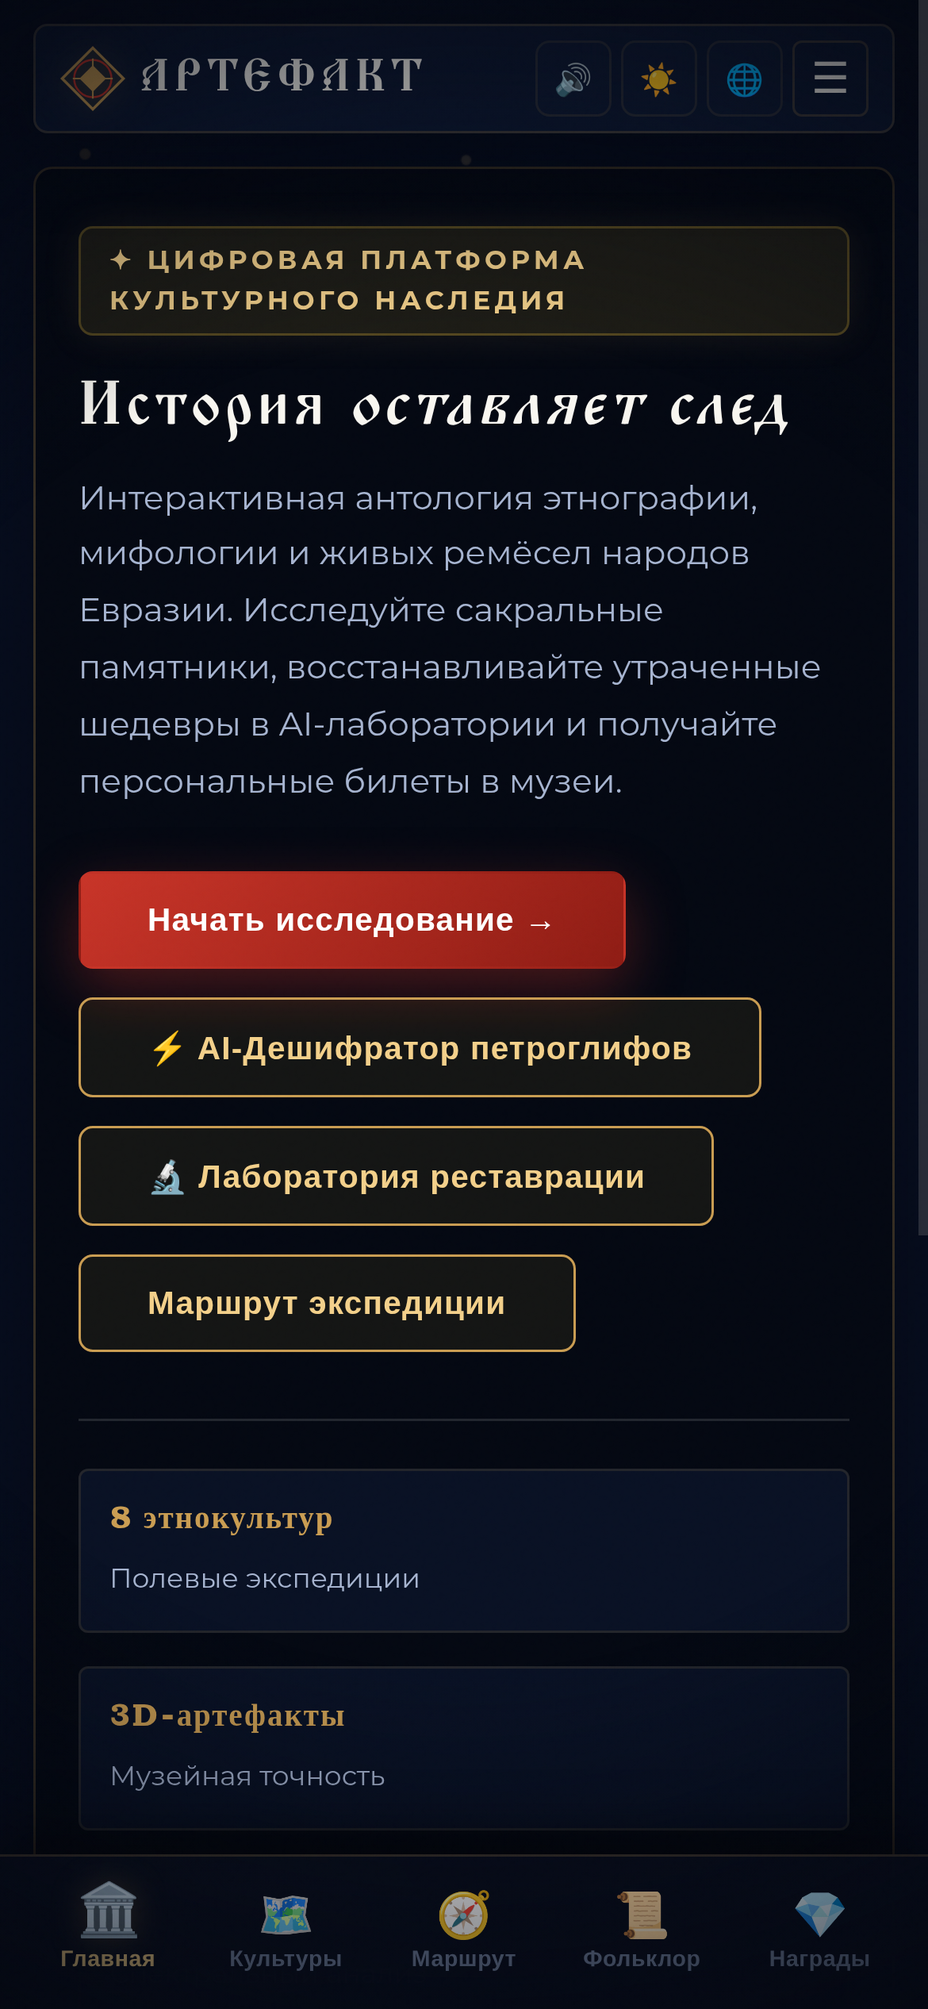
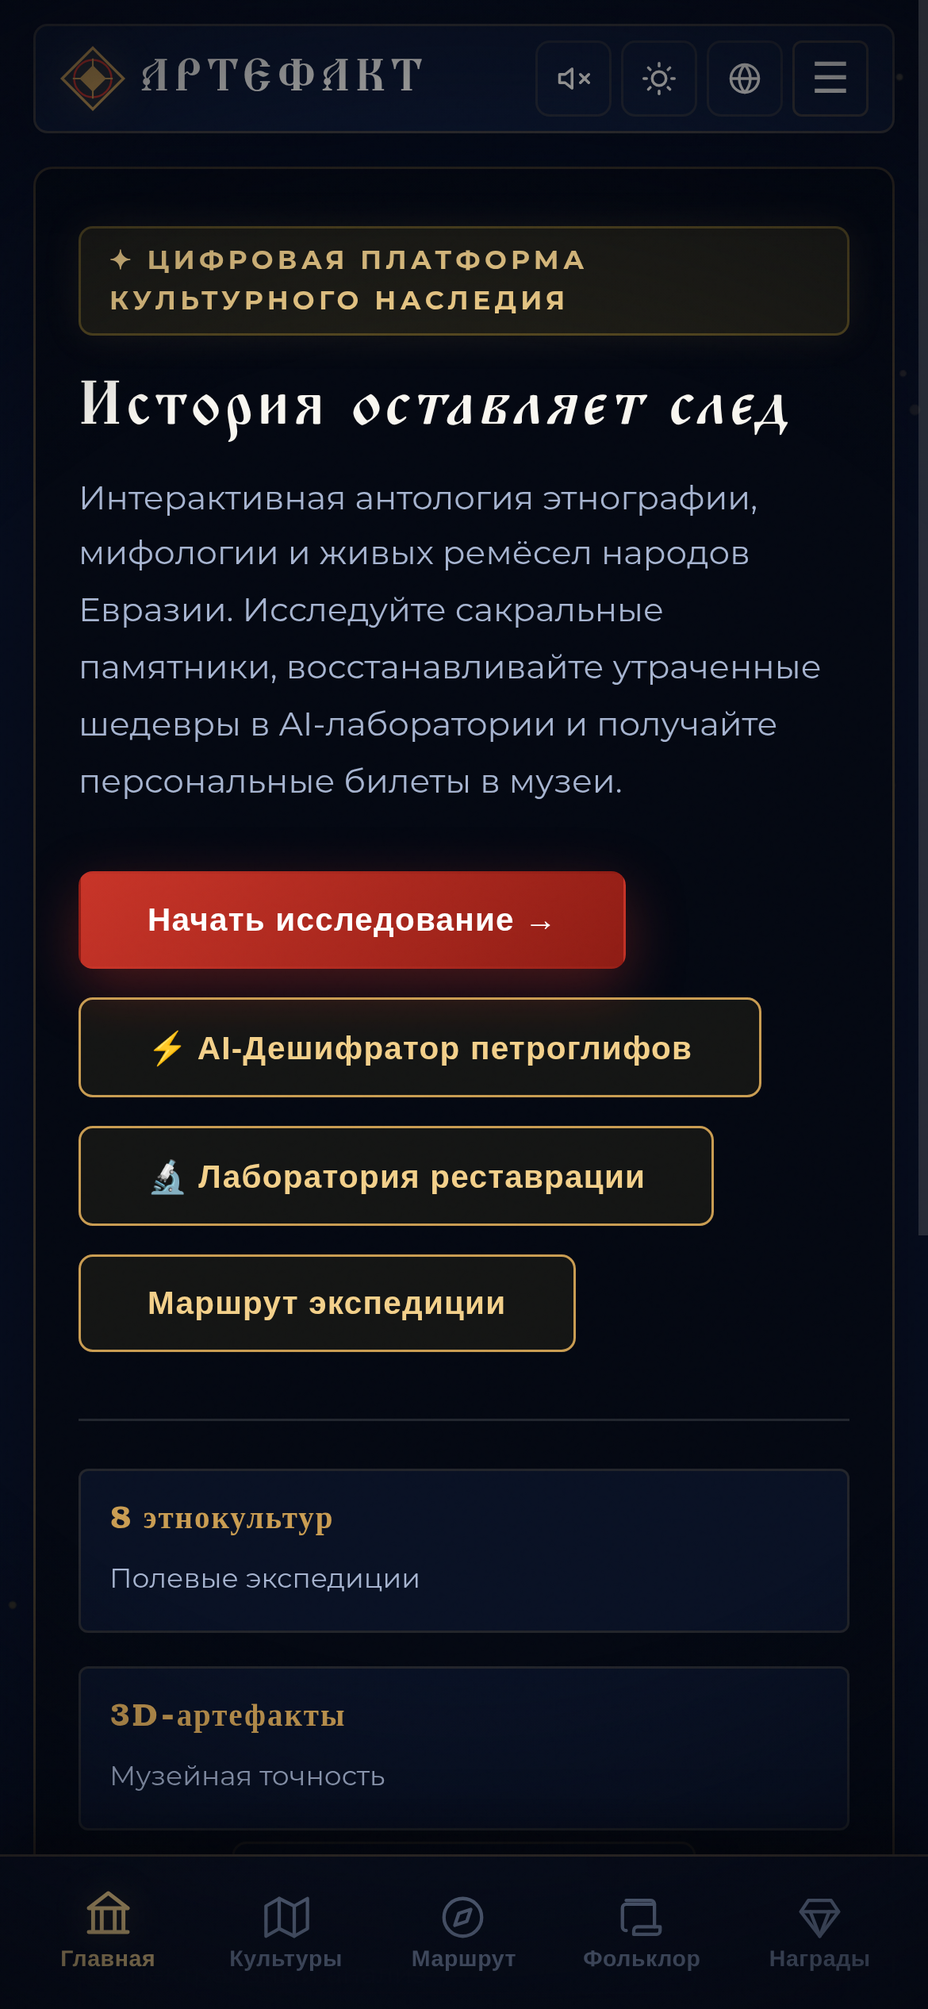
fix(header-layout): eliminate bottom-nav/action emojis, tune widescreen column balance, and refine nav breathing room

diff --git a/index.html b/index.html
@@ -422,9 +422,9 @@
       display: flex;
       align-items: center;
       justify-content: center;
-      gap: 3px;
+      gap: clamp(4px, 0.75vw, 10px);
       flex: 1;
-      margin: 0 10px;
+      margin: 0 12px;
       flex-wrap: nowrap;
     }
 
@@ -432,11 +432,11 @@
       position: relative;
       background: transparent;
       border: 1px solid transparent;
-      padding: 7px 11px;
+      padding: 7px clamp(8px, 0.7vw, 12px);
       border-radius: var(--radius-pill);
       font-size: 13px;
       font-weight: 500;
-      letter-spacing: 0.025em;
+      letter-spacing: 0.03em;
       color: var(--text-muted);
       cursor: pointer;
       transition: var(--transition);
@@ -502,6 +502,21 @@
 
     .action-chip .chip-label {
       font-weight: 600;
+    }
+
+    .chip-svg-icon {
+      flex-shrink: 0;
+      stroke: currentColor;
+      display: inline-block;
+      vertical-align: middle;
+      transition: stroke 0.2s ease, transform 0.2s ease;
+    }
+
+    #soundIconSymbol, #themeIconSymbol {
+      display: inline-flex;
+      align-items: center;
+      justify-content: center;
+      flex-shrink: 0;
     }
 
     #langToggleBtn {
@@ -1191,7 +1206,7 @@
       background: var(--bg-card);
       border: 1px solid var(--border-gold-subtle);
       border-radius: var(--radius-md);
-      padding: 15px 16px;
+      padding: 16px 18px;
       margin-bottom: 16px;
       box-shadow: inset 0 1px 0 rgba(255, 255, 255, 0.04);
     }
@@ -1288,16 +1303,16 @@
     }
 
     .milestone-desc {
-      font-size: 11.5px;
+      font-size: 12px;
       color: var(--text-dim);
-      margin-top: 2px;
-      line-height: 1.5;
+      margin-top: 3px;
+      line-height: 1.48;
     }
 
     /* ШАГ 1: БЫЛО / СТАЛО */
     .before-after-stage {
       position: relative;
-      height: clamp(260px, 34vh, 370px);
+      height: clamp(250px, 31vh, 335px);
       border-radius: var(--radius-md);
       overflow: hidden;
       border: 2px solid var(--border-gold);
@@ -1612,7 +1627,7 @@
     /* ШАГ 3: ЛУПА И АРХЕОЛОГИЧЕСКИЙ КВИЗ (60 FPS С GPU TRANSLATE3D) */
     .loupe-inspect-stage {
       position: relative;
-      height: clamp(260px, 38vh, 400px);
+      height: clamp(280px, 44vh, 480px);
       border-radius: var(--radius-md);
       overflow: hidden;
       border: 1px solid var(--border-gold);
@@ -2785,7 +2800,17 @@
     .bottom-nav-item .bnav-icon {
       font-size: 19px;
       line-height: 1;
+      display: flex;
+      align-items: center;
+      justify-content: center;
       transition: transform 0.2s cubic-bezier(0.175, 0.885, 0.32, 1.275);
+    }
+
+    .bnav-svg-icon {
+      width: 19px;
+      height: 19px;
+      stroke: var(--text-dim);
+      transition: stroke 0.2s ease, transform 0.2s ease;
     }
 
     .bottom-nav-item .bnav-label {
@@ -2805,6 +2830,14 @@
     .bottom-nav-item.is-active .bnav-icon {
       transform: translateY(-2px) scale(1.15);
       filter: drop-shadow(0 0 6px var(--gold-glow));
+    }
+
+    .bottom-nav-item.is-active .bnav-svg-icon {
+      stroke: var(--gold-light);
+    }
+
+    html[data-theme="cream"] .bottom-nav-item.is-active .bnav-svg-icon {
+      stroke: var(--gold);
     }
 
     /* ==========================================================================
@@ -2912,23 +2945,27 @@
 
       <!-- Действия: Звук, Тема, Режим телефона, Меню -->
       <div class="header-actions">
-        <button class="action-chip" id="ambientToggleBtn" title="Включить атмосферный звук">
-          <span id="soundIconSymbol">🔊</span>
+        <button class="action-chip" id="ambientToggleBtn" title="Включить атмосферный звук" aria-label="Включить атмосферный звук">
+          <span id="soundIconSymbol">
+            <svg class="chip-svg-icon" width="14" height="14" viewBox="0 0 24 24" fill="none" stroke="currentColor" stroke-width="2" stroke-linecap="round" stroke-linejoin="round"><polygon points="11 5 6 9 2 9 2 15 6 15 11 19 11 5"></polygon><line x1="23" y1="9" x2="17" y2="15"></line><line x1="17" y1="9" x2="23" y2="15"></line></svg>
+          </span>
           <span class="chip-label" id="soundLabelText">Эмбиент</span>
         </button>
 
-        <button class="action-chip" id="themeToggleBtn" title="Переключить тему оформления">
-          <span id="themeIconSymbol">☀</span>
+        <button class="action-chip" id="themeToggleBtn" title="Переключить тему оформления" aria-label="Переключить тему оформления">
+          <span id="themeIconSymbol">
+            <svg class="chip-svg-icon" width="14" height="14" viewBox="0 0 24 24" fill="none" stroke="currentColor" stroke-width="2" stroke-linecap="round" stroke-linejoin="round"><circle cx="12" cy="12" r="5"></circle><line x1="12" y1="12" x2="12" y2="3"></line><line x1="12" y1="21" x2="12" y2="23"></line><line x1="4.22" y1="4.22" x2="5.64" y2="5.64"></line><line x1="18.36" y1="18.36" x2="19.78" y2="19.78"></line><line x1="1" y1="12" x2="3" y2="12"></line><line x1="21" y1="12" x2="23" y2="12"></line><line x1="4.22" y1="19.78" x2="5.64" y2="18.36"></line><line x1="18.36" y1="5.64" x2="19.78" y2="4.22"></line></svg>
+          </span>
           <span class="chip-label" id="themeLabelText" data-i18n="theme_light">Светлая</span>
         </button>
 
         <button class="action-chip" id="langToggleBtn" title="Сменить язык / Switch language (RU / EN)" aria-label="Сменить язык">
-          <span>🌐</span>
+          <svg class="chip-svg-icon" width="14" height="14" viewBox="0 0 24 24" fill="none" stroke="currentColor" stroke-width="2" stroke-linecap="round" stroke-linejoin="round"><circle cx="12" cy="12" r="10"></circle><line x1="2" y1="12" x2="22" y2="12"></line><path d="M12 2a15.3 15.3 0 0 1 4 10 15.3 15.3 0 0 1-4 10 15.3 15.3 0 0 1-4-10 15.3 15.3 0 0 1 4-10z"></path></svg>
           <span class="chip-label" id="langLabelText" data-i18n="lang_btn_lbl">EN</span>
         </button>
 
-        <button class="action-chip" id="mobilePreviewToggleBtn" title="Эмуляция экрана мобильного">
-          <span>📱</span>
+        <button class="action-chip" id="mobilePreviewToggleBtn" title="Эмуляция экрана мобильного" aria-label="Эмуляция экрана мобильного">
+          <svg class="chip-svg-icon" width="13" height="13" viewBox="0 0 24 24" fill="none" stroke="currentColor" stroke-width="2" stroke-linecap="round" stroke-linejoin="round"><rect x="5" y="2" width="14" height="20" rx="2" ry="2"></rect><line x1="12" y1="18" x2="12.01" y2="18"></line></svg>
           <span class="chip-label" id="viewModeLabelText" data-i18n="view_mode">Вид</span>
         </button>
 
@@ -2955,7 +2992,7 @@
       <button class="nav-btn" data-route="workshop" data-i18n="nav_workshop">Мастерская</button>
       <div style="margin-top: 18px; padding-top: 14px; border-top: 1px solid var(--border-gold-subtle);">
         <button class="action-chip" id="mobileDrawerLangBtn" style="width: 100%; justify-content: center; gap: 8px;">
-          <span>🌐</span>
+          <svg class="chip-svg-icon" width="16" height="16" viewBox="0 0 24 24" fill="none" stroke="currentColor" stroke-width="2" stroke-linecap="round" stroke-linejoin="round"><circle cx="12" cy="12" r="10"></circle><line x1="2" y1="12" x2="22" y2="12"></line><path d="M12 2a15.3 15.3 0 0 1 4 10 15.3 15.3 0 0 1-4 10 15.3 15.3 0 0 1-4-10 15.3 15.3 0 0 1 4-10z"></path></svg>
           <span id="mobileDrawerLangLabel" data-i18n="lang_drawer_lbl">Language: English (EN)</span>
         </button>
       </div>
@@ -3083,7 +3120,7 @@
                 <div style="display:flex; justify-content:space-between; align-items:center; margin-bottom:8px;">
                   <strong style="color:var(--gold); font-size:13px;" data-i18n="q1_greeting_lbl">Живое традиционное приветствие:</strong>
                   <button class="action-chip" id="voiceGreetingSpeakerBtn" style="background:var(--ruby); border-color:var(--ruby); color:#fff; padding:5px 10px;">
-                    <span>🗣</span> <span id="voiceGreetingBtnText" data-i18n="q1_listen_btn">Слушать голос</span>
+                    <svg class="chip-svg-icon" width="13" height="13" viewBox="0 0 24 24" fill="none" stroke="currentColor" stroke-width="2" stroke-linecap="round" stroke-linejoin="round"><polygon points="11 5 6 9 2 9 2 15 6 15 11 19 11 5"></polygon><path d="M15.54 8.46a5 5 0 0 1 0 7.07"></path></svg> <span id="voiceGreetingBtnText" data-i18n="q1_listen_btn">Слушать голос</span>
                   </button>
                 </div>
                 <p id="voiceGreetingQuoteText" style="font-style:italic; font-family:var(--font-editorial); font-size:17px; color:var(--text-main); margin:0;">
@@ -4342,23 +4379,33 @@
   <nav class="mobile-bottom-nav" id="mobileBottomBarNav" aria-label="Мобильная навигация">
     <div class="bottom-nav-grid">
       <button class="bottom-nav-item is-active" data-route="hero">
-        <span class="bnav-icon">🏛</span>
+        <span class="bnav-icon">
+          <svg class="bnav-svg-icon" width="20" height="20" viewBox="0 0 24 24" fill="none" stroke="currentColor" stroke-width="1.8" stroke-linecap="round" stroke-linejoin="round"><path d="M3 21h18M3 10h18M5 10v11M9 10v11M15 10v11M19 10v11M12 3l9 7H3l9-7z"/></svg>
+        </span>
         <span class="bnav-label" data-i18n="bnav_hero">Главная</span>
       </button>
       <button class="bottom-nav-item" data-route="cultures">
-        <span class="bnav-icon">🗺</span>
+        <span class="bnav-icon">
+          <svg class="bnav-svg-icon" width="20" height="20" viewBox="0 0 24 24" fill="none" stroke="currentColor" stroke-width="1.8" stroke-linecap="round" stroke-linejoin="round"><polygon points="1 6 1 22 8 18 16 22 23 18 23 2 16 6 8 2 1 6"></polygon><line x1="8" y1="2" x2="8" y2="18"></line><line x1="16" y1="6" x2="16" y2="22"></line></svg>
+        </span>
         <span class="bnav-label" data-i18n="bnav_cultures">Культуры</span>
       </button>
       <button class="bottom-nav-item" data-route="quest">
-        <span class="bnav-icon">🧭</span>
+        <span class="bnav-icon">
+          <svg class="bnav-svg-icon" width="20" height="20" viewBox="0 0 24 24" fill="none" stroke="currentColor" stroke-width="1.8" stroke-linecap="round" stroke-linejoin="round"><circle cx="12" cy="12" r="10"></circle><polygon points="16.24 7.76 14.12 14.12 7.76 16.24 9.88 9.88 16.24 7.76"></polygon></svg>
+        </span>
         <span class="bnav-label" data-i18n="bnav_quest">Маршрут</span>
       </button>
       <button class="bottom-nav-item" data-route="folklore">
-        <span class="bnav-icon">📜</span>
+        <span class="bnav-icon">
+          <svg class="bnav-svg-icon" width="20" height="20" viewBox="0 0 24 24" fill="none" stroke="currentColor" stroke-width="1.8" stroke-linecap="round" stroke-linejoin="round"><path d="M19 17V5a2 2 0 0 0-2-2H4"></path><path d="M8 21h12a2 2 0 0 0 2-2v-2H10a2 2 0 0 0-2 2v2z"></path><path d="M4 19a2 2 0 0 1-2-2V7a2 2 0 0 1 2-2h15"></path></svg>
+        </span>
         <span class="bnav-label" data-i18n="bnav_folklore">Фольклор</span>
       </button>
       <button class="bottom-nav-item" data-route="collection">
-        <span class="bnav-icon">💎</span>
+        <span class="bnav-icon">
+          <svg class="bnav-svg-icon" width="20" height="20" viewBox="0 0 24 24" fill="none" stroke="currentColor" stroke-width="1.8" stroke-linecap="round" stroke-linejoin="round"><polygon points="6 3 18 3 22 9 12 22 2 9 6 3"></polygon><line x1="2" y1="9" x2="22" y2="9"></line><line x1="12" y1="22" x2="7" y2="9"></line><line x1="12" y1="22" x2="17" y2="9"></line></svg>
+        </span>
         <span class="bnav-label" data-i18n="bnav_collection">Награды</span>
       </button>
     </div>
@@ -8071,12 +8118,28 @@
       // ========================================================================
       // 13. УПРАВЛЕНИЕ ТЕМОЙ, ЭМБИЕНТОМ И МОБИЛЬНЫМ МЕНЮ
       // ========================================================================
+      function updateSoundIcon(isActive) {
+        const symbol = document.getElementById('soundIconSymbol');
+        if (!symbol) return;
+        symbol.innerHTML = isActive
+          ? `<svg class="chip-svg-icon" width="14" height="14" viewBox="0 0 24 24" fill="none" stroke="currentColor" stroke-width="2" stroke-linecap="round" stroke-linejoin="round"><polygon points="11 5 6 9 2 9 2 15 6 15 11 19 11 5"></polygon><path d="M15.54 8.46a5 5 0 0 1 0 7.07"></path><path d="M19.07 4.93a10 10 0 0 1 0 14.14"></path></svg>`
+          : `<svg class="chip-svg-icon" width="14" height="14" viewBox="0 0 24 24" fill="none" stroke="currentColor" stroke-width="2" stroke-linecap="round" stroke-linejoin="round"><polygon points="11 5 6 9 2 9 2 15 6 15 11 19 11 5"></polygon><line x1="23" y1="9" x2="17" y2="15"></line><line x1="17" y1="9" x2="23" y2="15"></line></svg>`;
+      }
+
+      function updateThemeIcon(theme) {
+        const symbol = document.getElementById('themeIconSymbol');
+        if (!symbol) return;
+        symbol.innerHTML = (theme === 'dark')
+          ? `<svg class="chip-svg-icon" width="14" height="14" viewBox="0 0 24 24" fill="none" stroke="currentColor" stroke-width="2" stroke-linecap="round" stroke-linejoin="round"><circle cx="12" cy="12" r="5"></circle><line x1="12" y1="1" x2="12" y2="3"></line><line x1="12" y1="21" x2="12" y2="23"></line><line x1="4.22" y1="4.22" x2="5.64" y2="5.64"></line><line x1="18.36" y1="18.36" x2="19.78" y2="19.78"></line><line x1="1" y1="12" x2="3" y2="12"></line><line x1="21" y1="12" x2="23" y2="12"></line><line x1="4.22" y1="19.78" x2="5.64" y2="18.36"></line><line x1="18.36" y1="5.64" x2="19.78" y2="4.22"></line></svg>`
+          : `<svg class="chip-svg-icon" width="14" height="14" viewBox="0 0 24 24" fill="none" stroke="currentColor" stroke-width="2" stroke-linecap="round" stroke-linejoin="round"><path d="M21 12.79A9 9 0 1 1 11.21 3 7 7 0 0 0 21 12.79z"></path></svg>`;
+      }
+
       const ambientBtn = document.getElementById('ambientToggleBtn');
       if (ambientBtn) {
         ambientBtn.addEventListener('click', () => {
           AudioEngine.toggleAmbient((isActive) => {
             const isEn = (window.I18N && window.I18N.getLang && window.I18N.getLang() === 'en');
-            document.getElementById('soundIconSymbol').textContent = isActive ? '🔊' : '🔈';
+            updateSoundIcon(isActive);
             document.getElementById('soundLabelText').textContent = isActive ? (isEn ? 'Playing' : 'Играет') : (isEn ? 'Ambient' : 'Эмбиент');
             triggerToast(isEn
               ? (isActive ? 'Ambient sound enabled' : 'Ambient sound muted')
@@ -8092,7 +8155,7 @@
           const currentTheme = html.getAttribute('data-theme') || 'dark';
           const newTheme = (currentTheme === 'dark') ? 'cream' : 'dark';
           html.setAttribute('data-theme', newTheme);
-          document.getElementById('themeIconSymbol').textContent = (newTheme === 'dark') ? '☀' : '🌙';
+          updateThemeIcon(newTheme);
           const isEn = (window.I18N && window.I18N.getLang && window.I18N.getLang() === 'en');
           document.getElementById('themeLabelText').textContent = (newTheme === 'dark') ? (isEn ? 'Light' : 'Светлая') : (isEn ? 'Dark' : 'Тёмная');
           triggerHaptic('light');
@@ -8163,18 +8226,20 @@
           pAudio.textContent = isPetroAudioActive ? (lang === 'en' ? '🔔 Active' : '🔔 Включен') : (lang === 'en' ? '🔕 Muted' : '🔕 Выключен');
         }
 
-        // Update sound label
+        // Update sound label & icon
         const sndLbl = document.getElementById('soundLabelText');
         if (sndLbl) {
           const isPlaying = AudioEngine && AudioEngine.isAmbientPlaying && AudioEngine.isAmbientPlaying();
           sndLbl.textContent = isPlaying ? (lang === 'en' ? 'Playing' : 'Играет') : (lang === 'en' ? 'Ambient' : 'Эмбиент');
+          updateSoundIcon(isPlaying);
         }
 
-        // Update theme label
+        // Update theme label & icon
         const thmLbl = document.getElementById('themeLabelText');
         if (thmLbl) {
           const currentTheme = document.documentElement.getAttribute('data-theme') || 'dark';
           thmLbl.textContent = (currentTheme === 'dark') ? (lang === 'en' ? 'Light' : 'Светлая') : (lang === 'en' ? 'Dark' : 'Тёмная');
+          updateThemeIcon(currentTheme);
         }
 
         // Update view label

diff --git a/test_layout_and_header.py b/test_layout_and_header.py
@@ -129,10 +129,19 @@ def verify():
             const navBtns = Array.from(document.querySelectorAll('.desktop-nav .nav-btn'));
             const activeNav = document.querySelector('.desktop-nav .nav-btn.is-active');
             const chips = Array.from(document.querySelectorAll('.header-actions .action-chip'));
+            const bnavBtns = Array.from(document.querySelectorAll('.mobile-bottom-nav .bottom-nav-item'));
             
-            // Check for emoji in navBtns
+            // Check for emoji in navBtns, chips, and bottom-nav
             const emojiRegex = /[\\u{1F300}-\\u{1F9FF}]|[\\u{2600}-\\u{26FF}]|[\\u{2700}-\\u{27BF}]/u;
             const navEmojis = navBtns.map(b => ({
+                text: b.textContent.trim(),
+                hasEmoji: emojiRegex.test(b.textContent)
+            }));
+            const chipEmojis = chips.map(c => ({
+                text: c.textContent.trim(),
+                hasEmoji: emojiRegex.test(c.textContent)
+            }));
+            const bnavEmojis = bnavBtns.map(b => ({
                 text: b.textContent.trim(),
                 hasEmoji: emojiRegex.test(b.textContent)
             }));
@@ -147,6 +156,8 @@ def verify():
                 brandTagline: brandTagline.textContent.trim(),
                 navBtnsCount: navBtns.length,
                 navEmojis,
+                chipEmojis,
+                bnavEmojis,
                 activeRoute: activeNav ? activeNav.dataset.route : null,
                 activeBg: activeStyle ? activeStyle.backgroundColor : null,
                 activeColor: activeStyle ? activeStyle.color : null,
@@ -162,6 +173,16 @@ def verify():
         for b in header_info['navEmojis']:
             print(f"  - '{b['text']}': hasEmoji={b['hasEmoji']}")
             assert not b['hasEmoji'], f"Emoji found in desktop nav: {b['text']}"
+
+        print("Action chips emoji status:")
+        for c in header_info['chipEmojis']:
+            print(f"  - Chip '{c['text']}': hasEmoji={c['hasEmoji']}")
+            assert not c['hasEmoji'], f"Emoji found in header action chip: {c['text']}"
+
+        print("Mobile bottom nav emoji status:")
+        for b in header_info['bnavEmojis']:
+            print(f"  - BNav '{b['text']}': hasEmoji={b['hasEmoji']}")
+            assert not b['hasEmoji'], f"Emoji found in bottom nav item: {b['text']}"
 
         assert header_info['navBtnsCount'] == 9, "Expected 9 nav buttons"
         assert header_info['chipsCount'] >= 4, "Expected action chips"
@@ -215,14 +236,20 @@ def verify():
         assert quest_metrics['heightDiff'] < 120, f"Columns not balanced! diff={quest_metrics['heightDiff']}px"
         assert quest_metrics['milestonesCount'] == 3, f"Expected 3 milestones, got {quest_metrics['milestonesCount']}"
 
-        print("\n--- 3. VERIFYING MILESTONES ACROSS ALL 8 CULTURES IN RU & EN ---")
+        print("\n--- 3. VERIFYING MILESTONES & COLUMN BALANCE ACROSS ALL 8 CULTURES IN RU & EN ---")
         cultures = ['tatarstan', 'pomorye', 'caucasus', 'altai', 'yakutia', 'kamchatka', 'kazakhstan', 'uzbekistan']
         for cult in cultures:
             exec_js(f'setupQuestCulture("{cult}", false);')
             ru_count = exec_js('document.querySelectorAll("#questMilestonesTimeline .milestone-item").length')
             assert ru_count == 3, f"Culture {cult} missing RU milestones"
+            ru_diff = exec_js('''(() => {
+                const cols = document.querySelector("#questStepSub1 .split-layout-2col").children;
+                return Math.abs(cols[0].getBoundingClientRect().height - cols[1].getBoundingClientRect().height);
+            })()''')
+            print(f"  -> RU {cult}: 3 milestones, height diff = {round(ru_diff, 1)}px")
+            assert ru_diff < 80, f"Column height diff too large for {cult}: {ru_diff}px"
             
-        # Switch to EN and verify zero Cyrillic in milestones
+        # Switch to EN and verify zero Cyrillic in milestones and column balance
         exec_js('window.I18N.setLanguage("en");')
         cyrillic_regex = '/[а-яА-ЯёЁ]/'
         for cult in cultures:
@@ -231,8 +258,13 @@ def verify():
                 const items = Array.from(document.querySelectorAll("#questMilestonesTimeline .milestone-item"));
                 return items.map(it => it.textContent);
             })()''')
-            print(f"  -> EN {cult}: {len(en_milestones)} milestones loaded")
+            en_diff = exec_js('''(() => {
+                const cols = document.querySelector("#questStepSub1 .split-layout-2col").children;
+                return Math.abs(cols[0].getBoundingClientRect().height - cols[1].getBoundingClientRect().height);
+            })()''')
+            print(f"  -> EN {cult}: {len(en_milestones)} milestones loaded, height diff = {round(en_diff, 1)}px")
             assert len(en_milestones) == 3, f"Culture {cult} missing EN milestones"
+            assert en_diff < 80, f"EN Column height diff too large for {cult}: {en_diff}px"
             for txt in en_milestones:
                 has_cyrillic = exec_js(f'{cyrillic_regex}.test({json.dumps(txt)})')
                 assert not has_cyrillic, f"Cyrillic found in EN milestone for {cult}: {txt}"
